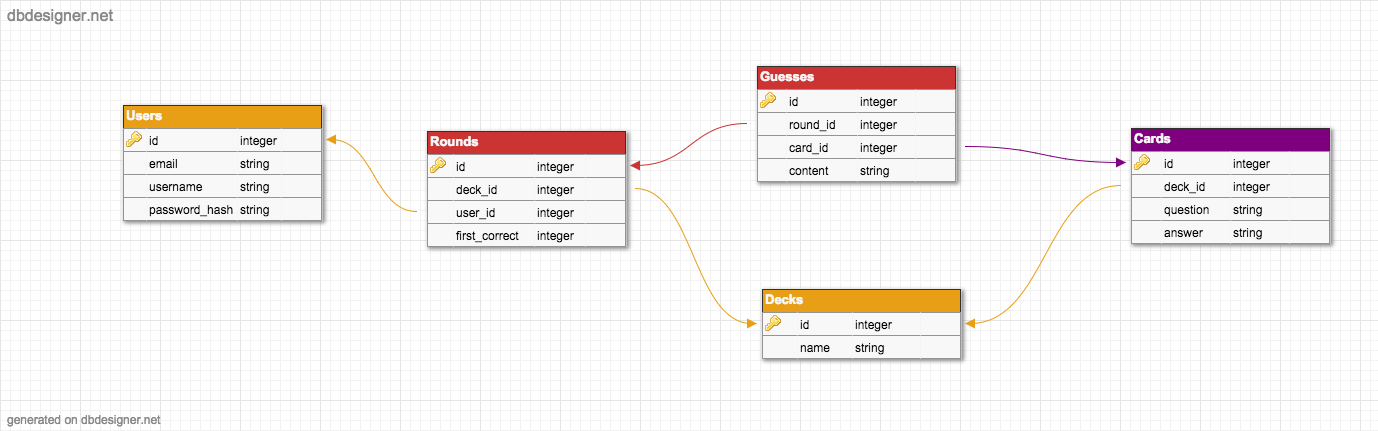
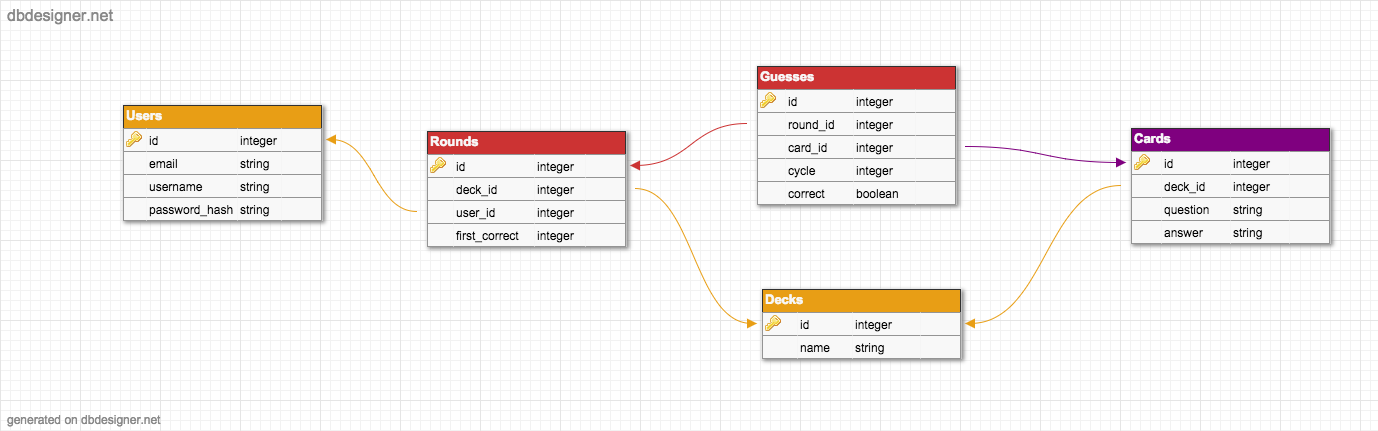
Change Guess model schema design
For keep track of the number of times of the same card we go through, we
add the cycle (number of times) and correct (if the guess is a correct guess)
to the schema.

Changed region(s): [[0.5305, 0.3921, 0.7177, 0.4826], [0.5617, 0.2111, 0.6553, 0.3016], [0.5617, 0.3318, 0.6553, 0.3619]]

diff --git a/db/seeds.rb b/db/seeds.rb
@@ -8,3 +8,41 @@ Card.create([{question: "Elephants can reach their tails by their noes.", answer
             {question: "Elephants have no natural predators other than humans who hunt them for ivory.", answer: "true", deck_id: 1}
             {question: "Normal maximum lifespan in the wild 40-50 years.", answer: "false", deck_id: 1}])
 
+
+Card.create([{question: "To create a second name for the variable or method.", answer: "alias", deck_id: 2},
+             {question: "A command that appends two or more objects together.", answer: "and", deck_id: 2},
+             {question: "Designates code that must be run unconditionally at the beginning of the program before any other.", answer: "BEGIN", deck_id: 2},
+             {question: "Delimits a "begin" block of code, which can allow the use of while and until in modifier position with multi-line statements.", answer: "begin", deck_id: 2},
+             {question: "Gives an unconditional termination to a code block, and is usually placed with an argument.", answer: "break", deck_id: 2},
+             {question: "starts a case statement; this block of code will output a result and end when it's terms are fulfilled, which are defined with when or else.", answer: "case", deck_id: 2},
+             {question: "Opens a class definition block, which can later be reopened and added to with variables and even functions.", answer: "class", deck_id: 2}             {question: "Used to define a function.", answer: "def", deck_id: 2},
+             {question: "A boolean logic function that asks whether or not a targeted expression refers to anything recognizable in Ruby; i.e. literal object, local variable that has been initialized, method name visible from the current scope, etc.", answer: "defined?", deck_id: 2},
+             {question: "Paired with end, this can delimit a code block, much like curly braces; however, curly braces retain higher precedence.", answer: "do", deck_id: 2},
+             {question: "Gives an "otherwise" within a function, if-statement, or for-loop, i.e. if cats = cute, puts "Yay!" else puts "Oh, a cat."", answer: "else", deck_id: 2},
+             {question: "Much like else, but has a higher precedence, and is usually paired with terms.", answer: "elsif", deck_id: 2},
+             {question: "Designates, via code block, code to be executed just prior to program termination.", answer: "END", deck_id: 2},
+             {question: "Marks the end of a while, until, begin, if, def, class, or other keyword-based, block-based construct.", answer: "end", deck_id: 2},
+             {question: "Marks the final, optional clause of a begin/end block, generally in cases where the block also contains a rescue clause. The code in this term's clause is guaranteed to be executed, whether control flows to a rescue block or not.", answer: "ensure", deck_id: 2},
+             {question: "denotes a special object, the sole instance of FalseClass. false and nil are the only objects that evaluate to Boolean falsehood in Ruby (informally, that cause an if condition to fail.)", answer: "false", deck_id: 2},
+             {question: "A loop constructor; used in for-loops.", answer: "for", deck_id: 2},
+             {question: "Ruby's basic conditional statement constructor.", answer: "if", deck_id: 2},
+             {question: "Used with for, helps define a for-loop.", answer: "in", deck_id: 2},
+             {question: "Opens a library, or module, within a Ruby Stream.", answer: "module", deck_id: 2},
+             {question: "Bumps an iterator, or a while or until block, to the next iteration, unconditionally and without executing whatever may remain of the block.", answer: "next", deck_id: 2},
+             {question: "A special "non-object"; it is, in fact, an object (the sole instance of NilClass), but connotes absence and indeterminacy. nil and false are the only two objects in Ruby that have Boolean falsehood (informally, that cause an if condition to fail).", answer: "nil", deck_id: 2},
+             {question: "Boolean negation. i.e. not true # false, not 10 # false, not false # true.", answer: "not", deck_id: 2},
+             {question: "Boolean or. Differs from || in that or has lower precedence.", answer: "or", deck_id: 2},
+             {question: "Causes unconditional re-execution of a code block, with the same parameter bindings as the current execution.", answer: "redo", deck_id: 2},
+             {question: "Designates an exception-handling clause that can occur either inside a begin<code>/<code>end block, inside a method definition (which implies begin), or in modifier position (at the end of a statement).", answer: "rescue", deck_id: 2},
+             {question: "Inside a rescue clause, causes Ruby to return to the top of the enclosing code (the begin keyword, or top of method or block) and try executing the code again.", answer: "retry", deck_id: 2},
+             {question: "Inside a method definition, executes the ensure clause, if present, and then returns control to the context of the method call. Takes an optional argument (defaulting to nil), which serves as the return value of the method. Multiple values in argument position will be returned in an array.", answer: "return", deck_id: 2},
+             {question: "The "current object" and the default receiver of messages (method calls) for which no explicit receiver is specified. Which object plays the role of self depends on the context.", answer: "self", deck_id: 2},
+             {question: "Called from a method, searches along the method lookup path (the classes and modules available to the current object) for the next method of the same name as the one being executed. Such method, if present, may be defined in the superclass of the object's class, but may also be defined in the superclass's superclass or any class on the upward path, as well as any module mixed in to any of those classes.", answer: "super", deck_id: 2},
+             {question: "Optional component of conditional statements (if, unless, when). Never mandatory, but allows for one-line conditionals without semi-colons.", answer: "then", deck_id: 2},
+             {question: "The sole instance of the special class TrueClass. true encapsulates Boolean truth; however, <emph>all</emph> objects in Ruby are true in the Boolean sense (informally, they cause an if test to succeed), with the exceptions of false and nil.", answer: "true", deck_id: 2},
+             {question: "Undefines a given method, for the class or module in which it's called. If the method is defined higher up in the lookup path (such as by a superclass), it can still be called by instances classes higher up.", answer: "undef", deck_id: 2},
+             {question: "The negative equivalent of if. i.e. unless y.score > 10 puts "Sorry; you needed 10 points to win." end.", answer: "unless", deck_id: 2},
+             {question: "The inverse of while: executes code until a given condition is true, i.e., while it is not true. The semantics are the same as those of while.", answer: "until", deck_id: 2},
+             {question: "Same as case.", answer: "when", deck_id: 2},
+             {question: "Takes a condition argument, and executes the code that follows (up to a matching end delimiter) while the condition is true.", answer: "while", deck_id: 2},
+             {question: "Called from inside a method body, yields control to the code block (if any) supplied as part of the method call. If no code block has been supplied, calling yield raises an exception.", answer: "yield", deck_id: 2}])

diff --git a/db/migrate/20151113123715_create_guesses.rb b/db/migrate/20151113123715_create_guesses.rb
@@ -3,7 +3,8 @@ class CreateGuesses < ActiveRecord::Migration
     create_table  :guesses do |t|
       t.integer :round_id, null: false
       t.integer :card_id, null: false
-      t.string  :content, null: false
+      t.integer  :cycle, null: false, default: 0
+      t.boolean  :correct, null: false
 
       t.timestamps null: false
     end

diff --git a/app/models/guess.rb b/app/models/guess.rb
@@ -1,5 +1,5 @@
 class Guess < ActiveRecord::Base
-  validates :round_id, :card_id, :content, presence: true
+  validates :round_id, :card_id, :cycle ,:correct, presence: true
   belongs_to :round
   belongs_to :card
 

diff --git a/app/models/round.rb b/app/models/round.rb
@@ -2,5 +2,5 @@ class Round < ActiveRecord::Base
   validates :user_id, :deck_id, presence: true
   belongs_to :user
   belongs_to :deck
-  has_many :guesses
+  has_many :guesses, dependent: :destroy
 end

diff --git a/app/models/card.rb b/app/models/card.rb
@@ -1,6 +1,5 @@
 class Card < ActiveRecord::Base
   validates :deck_id, :question, :answer, presence: true
   belongs_to :deck
-  has_many :guesses
-
+  has_many :guesses, dependent: :destroy
 end

diff --git a/app/models/deck.rb b/app/models/deck.rb
@@ -1,6 +1,6 @@
 class Deck < ActiveRecord::Base
   validates :name, presence: true
-  has_many :rounds
+  has_many :rounds, dependent: :destroy
   has_many :cards
 
 end
